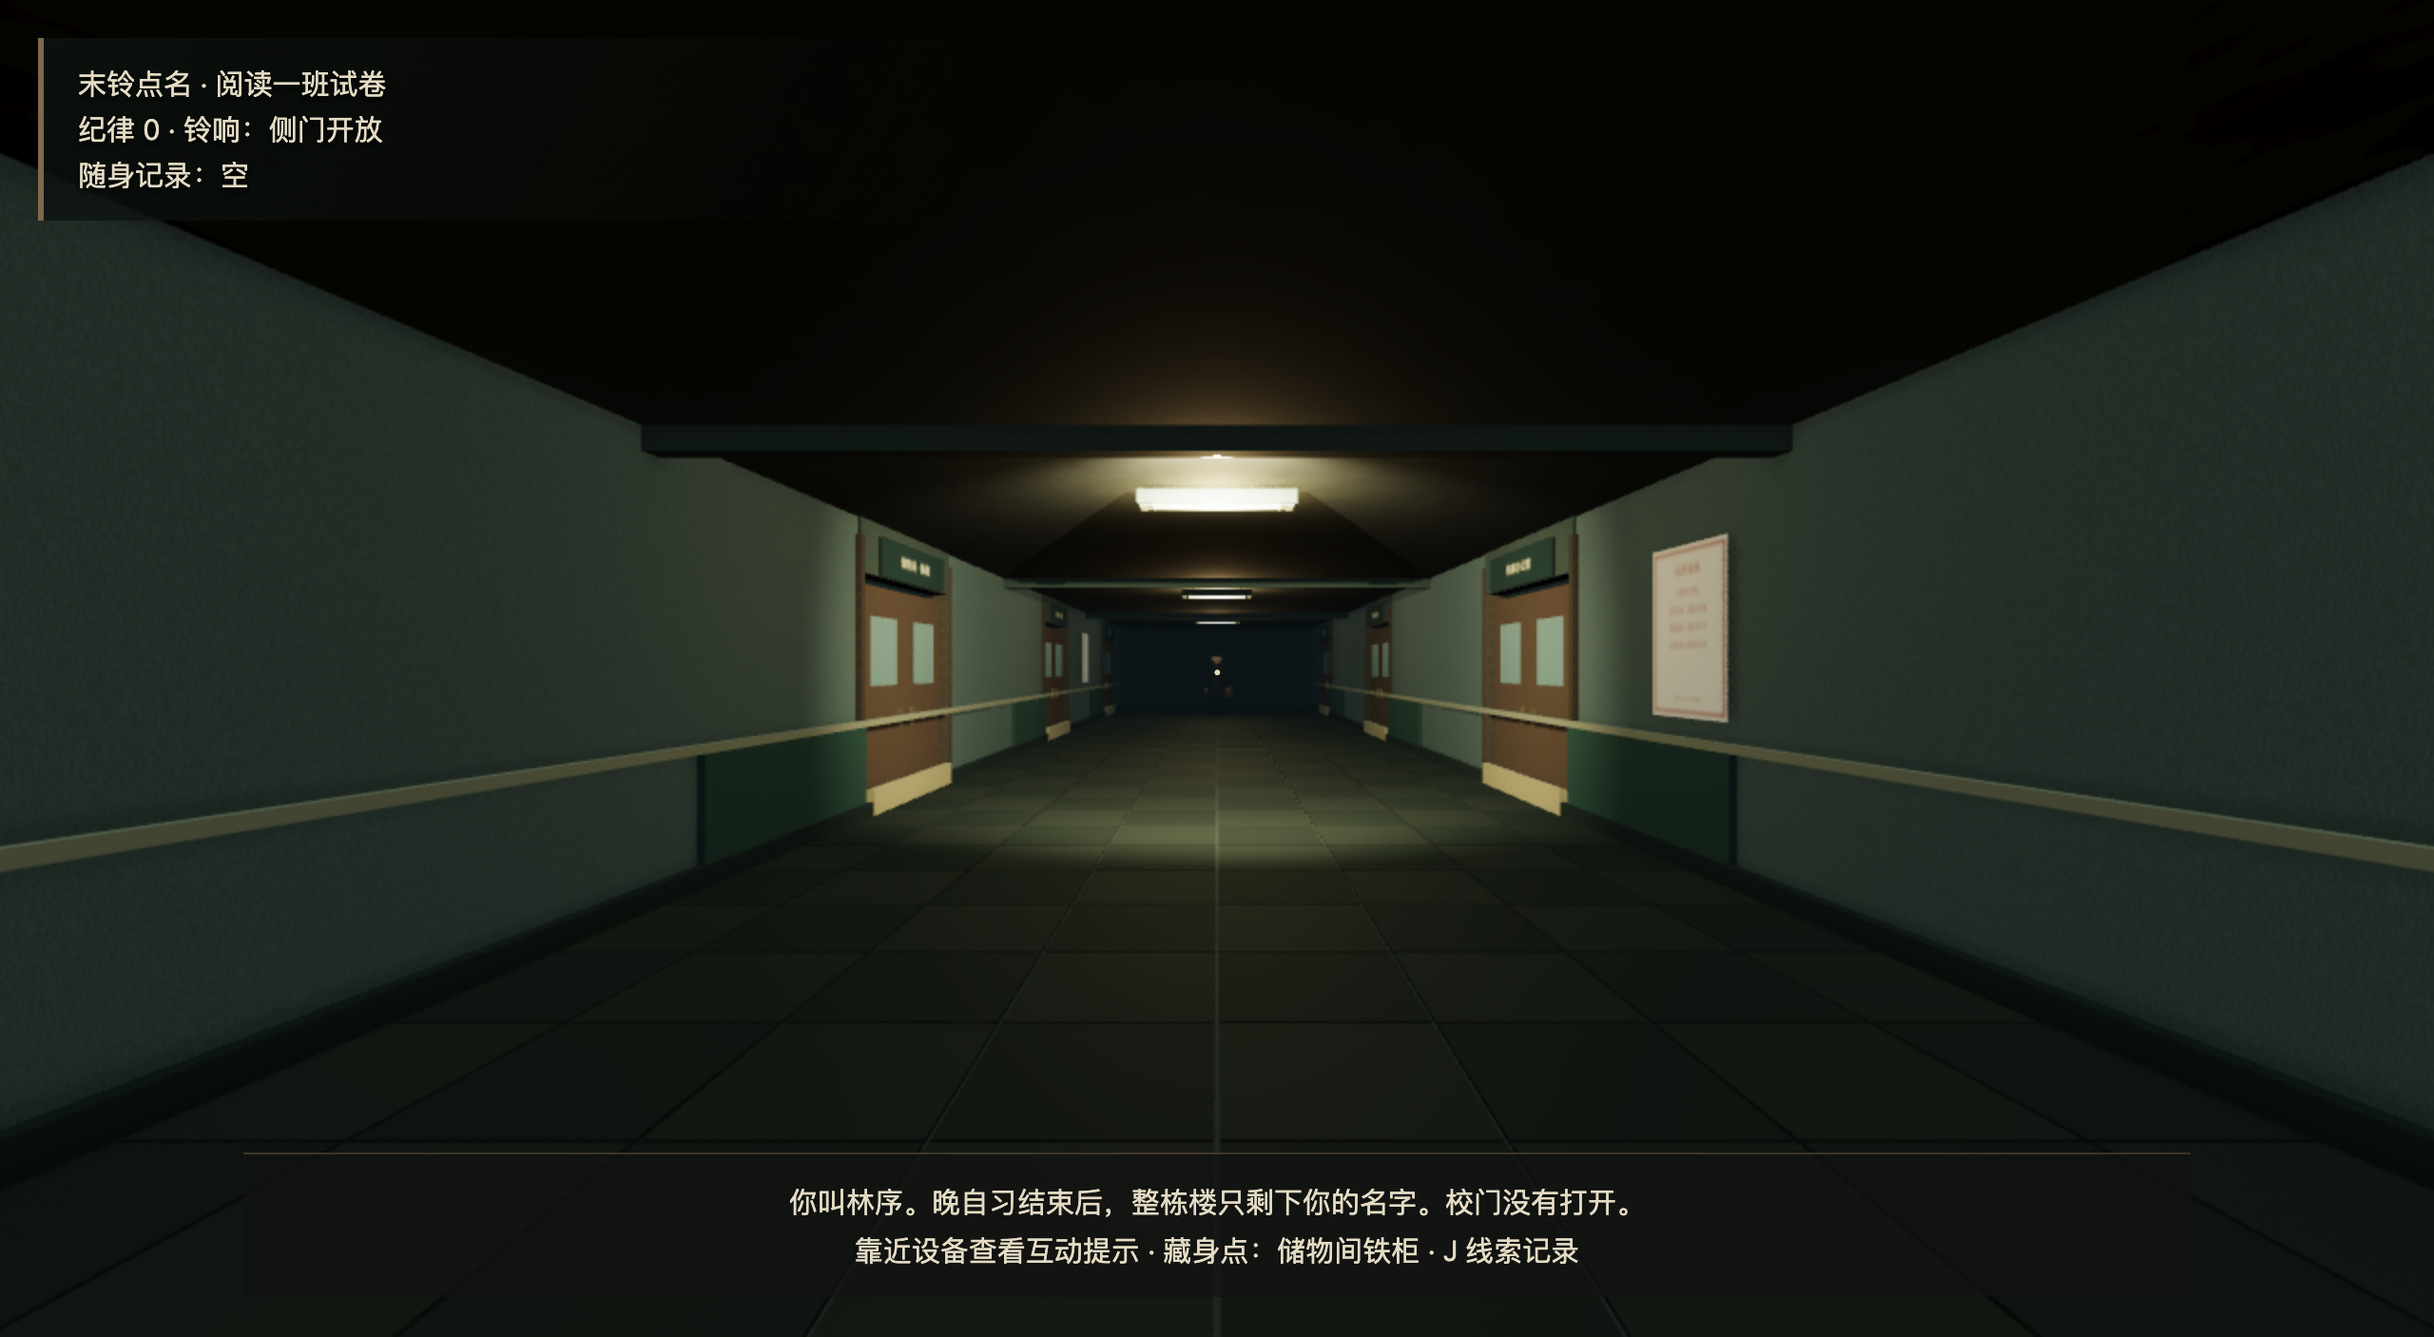
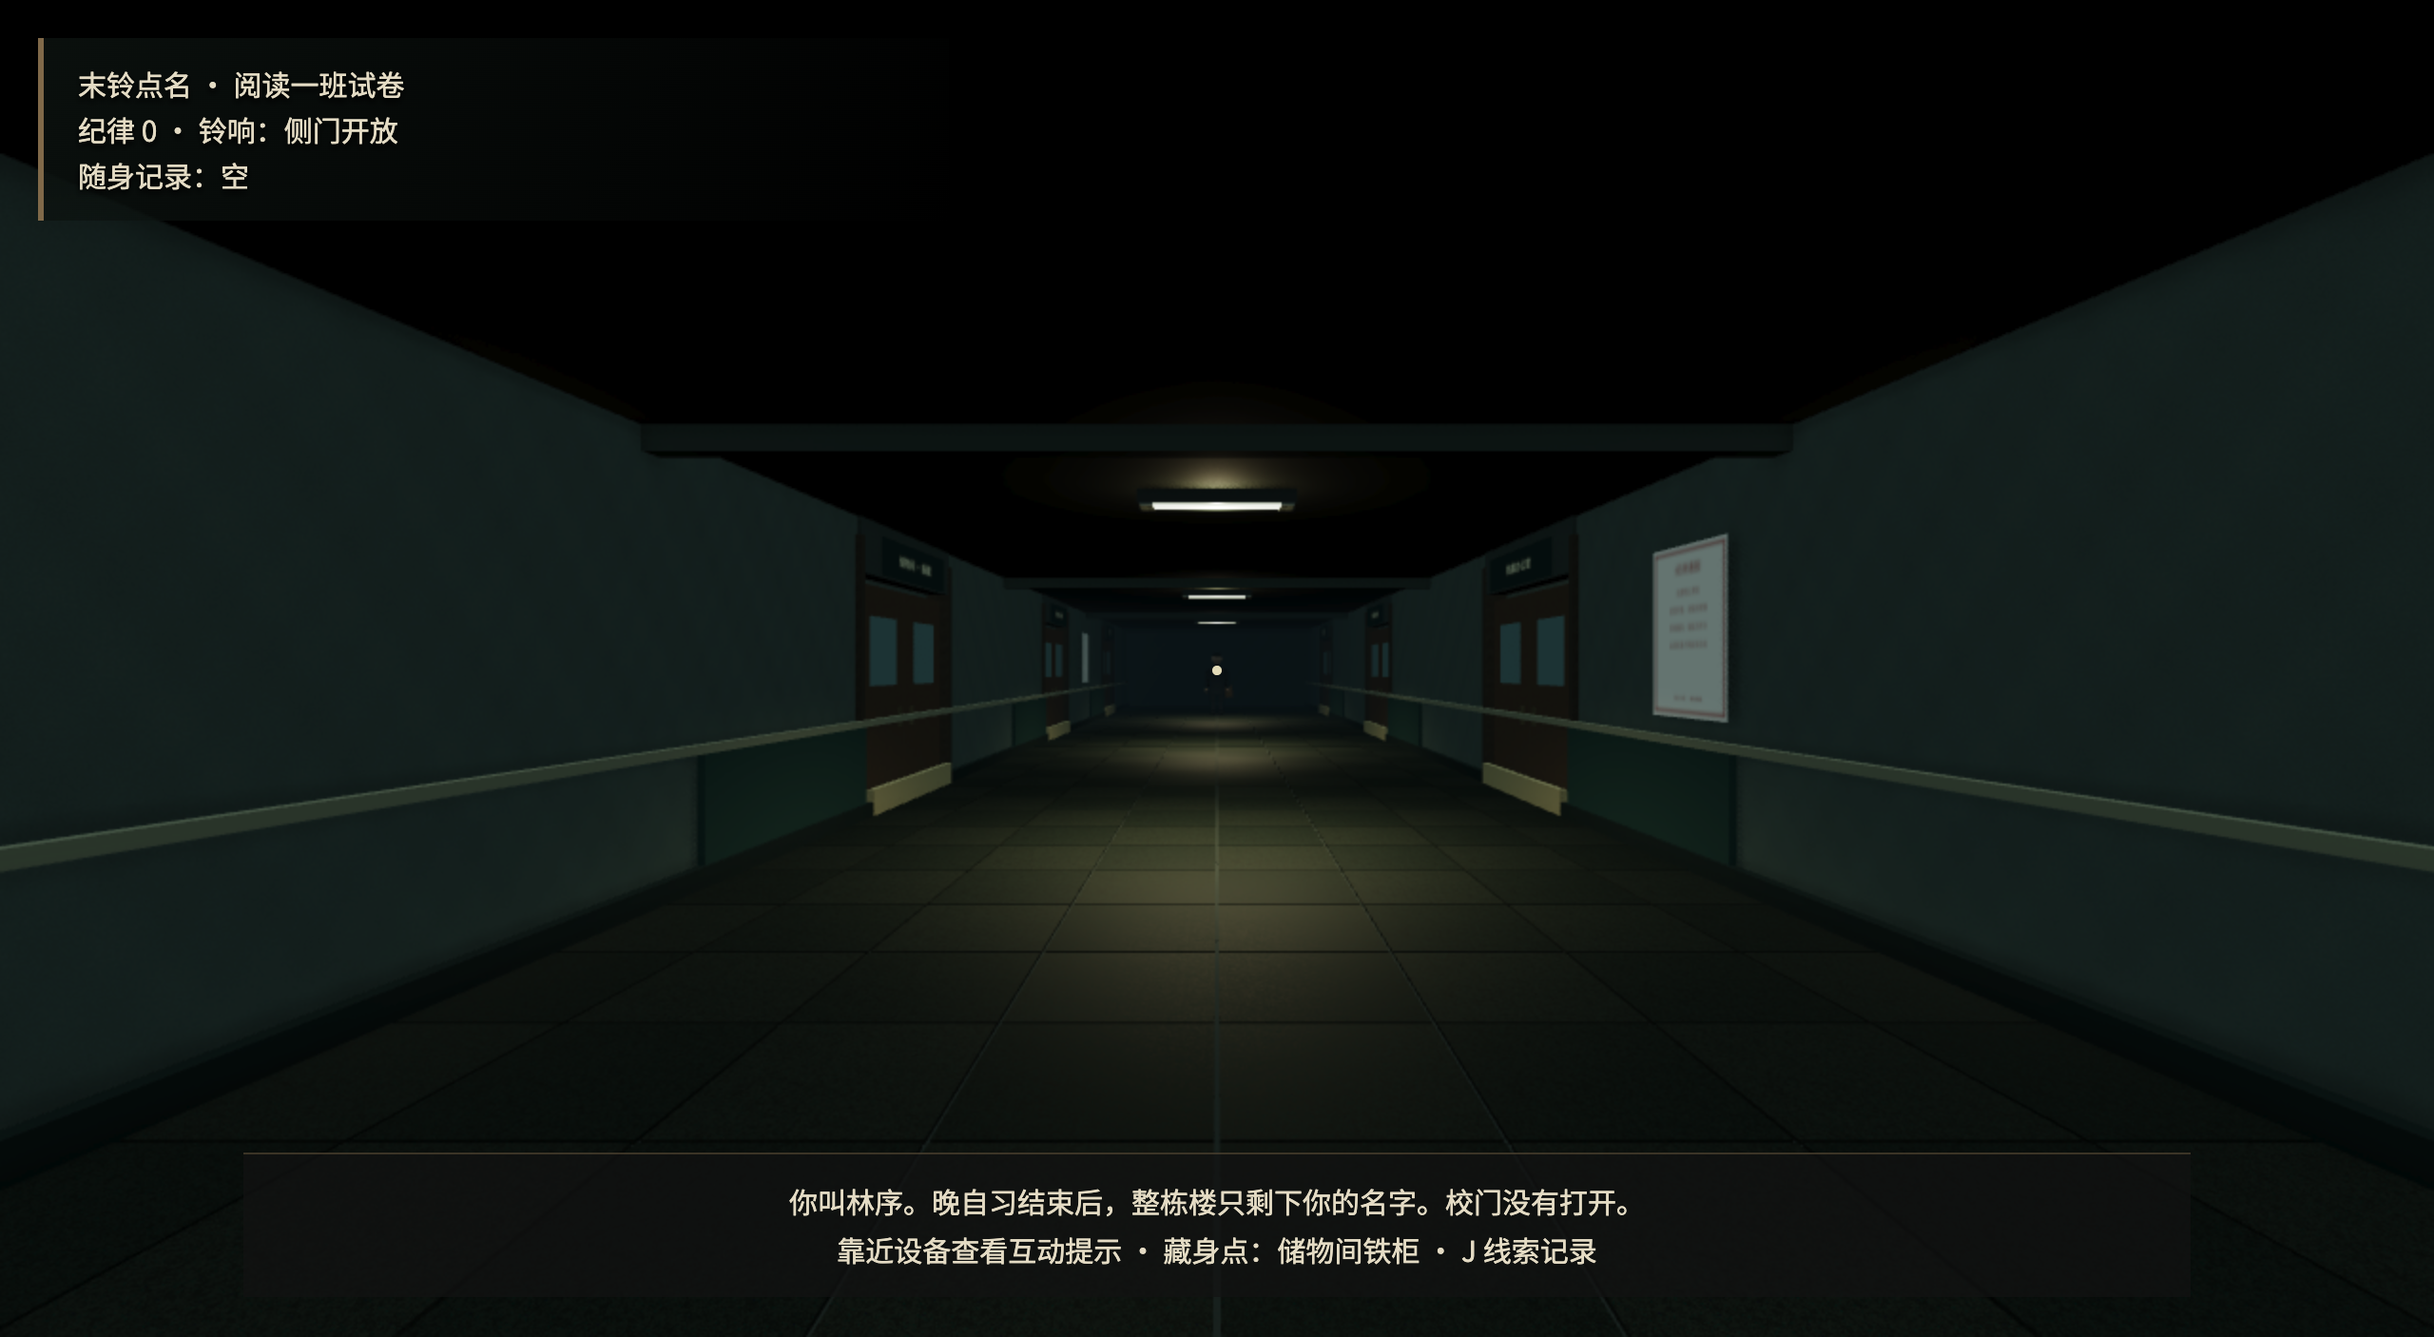
Publish verified 0.6.0 download and platform report

diff --git a/FINAL_REPORT.md b/FINAL_REPORT.md
@@ -1,61 +1,43 @@
-# 末铃点名 · 0.5.0开发预览交付报告
+# 末铃点名 · 0.6.0开发预览交付报告
 
-已公开发布能独立离线运行、能够通关的桌面游戏。**完整目标仍未完成**：高级商业游戏音画品质尚未验收，20—30分钟是设计目标，尚无独立首次玩家时长测量。熟知答案的自动路线不能代表首次体验。
+已公开发布能独立离线运行、能够通关的桌面游戏。**完整目标仍未完成**：高级商业游戏音画品质尚未验收；20—30分钟是设计目标，尚无独立首次玩家时长测量。
 
-## 已实现与正常流程验证
-- 原创虚构校园、一栋有限教学楼、两间教室、办公室、广播室、储物间、纪律公示室、配电与侧门区域。
-- 第一人称移动、奔跑、潜行、碰撞、开关门、互动、柜内窥视与躲藏；巡逻、视听发现、追逐、丢失目标后搜查、返回巡逻。目击入柜可被搜查，不能隔墙看见或捕获。
-- 铃声安全窗口及门禁、试卷/成绩谜题、纪律警戒、广播提示；试卷→档案柜→频道→配电→铃声出口的完整链条。
-- 中文菜单、设置、暂停、检查点、逐级提示、可回看记录与楼层示意图；失败/继续、可跳过被捕演出、晨光逃离结局。
-- 原创程序化建筑/家具/角色/材质、接触阴影、空间音效、阻尼弦与自适应配乐、本机中文播报；语音期间压低音乐，始终提供必要字幕。
+## 内容与玩法
+原创虚构的昭川中学包含走廊、两间教室、办公室、广播室、储物间、纪律室、配电及侧门区域。玩家可以移动、奔跑、潜行、开门、互动和藏入储物柜。巡查者有视线遮挡、声音发现、追逐、最后位置搜查与巡逻；目击藏入会搜查。
 
-实际下载的0.5.0 Mac arm64 ZIP应用，通过从新游戏到胜利的正常键盘路线，经历3次捕获后由菜单读取已获得检查点；无瞬移、无敌或物品注入。整个过程启用Playwright网络离线模式，HTTP请求0、页面错误0。同源本机应用也通过了完整路线和地图小窗口检查。
+铃声改变安全窗口与门禁，奔跑提高纪律值；试卷、成绩和频道记录形成“试卷→档案→广播→配电→铃声出口”的解谜链。提供中文菜单、设置、检查点、记录、地图、逐级提示、失败续玩和逃离结局。
 
-## 源码、运行与下载
-- [实际源码仓库](https://github.com/Tomhao10225101490/midnight-rollcall)
-- [实际0.5.0 Release下载页](https://github.com/Tomhao10225101490/midnight-rollcall/releases/tag/v0.5.0)
-- 项目文件夹：`midnight-rollcall`。进入目录后运行 `npm ci`、`node node_modules/electron/install.js`、`npm run desktop`。
-- 实际下载DMG/ZIP与校验文件：`release/downloads-0.5.0/`。
-- 实际下载ZIP解出的可双击应用：`artifacts/downloaded-0.5.0/末铃点名.app`。
-- 同源本机0.5.0应用：`release/dev-0.5/mac-arm64/末铃点名.app`。旧 `release/mac-arm64` 仍为0.4，未覆盖。
-- [每个产物的字节数与SHA256](docs/ARTIFACTS-0.5.0.md)，9个包共993131998字节。Release附带SHA256SUMS.txt。
-- 网页试玩未部署；静态web.zip仅为次要独立构建。
+0.6新增立体窗户及档案柜细节、按米平铺的抹灰与水磨石、顶灯对应动态阴影、五段原创阶段配乐和离线中文字体。修复追逐状态残留至重开，以及快速关闭面板的鼠标锁定事件竞争。所有模型、材质和合成音色由项目代码原创生成；灯光是实时近似，不是路径追踪。
 
-## 平台矩阵
-| 平台 | 0.5.0实际产物 | 验证范围 |
+## 下载与本机运行
+- [源码仓库](https://github.com/Tomhao10225101490/midnight-rollcall)
+- [0.6.0 Release](https://github.com/Tomhao10225101490/midnight-rollcall/releases/tag/v0.6.0)
+- 项目目录：`midnight-rollcall`。执行 `npm ci`、`node node_modules/electron/install.js`、`npm run desktop`。
+- 实际下载DMG/ZIP及校验文件：`release/downloads-0.6.0/`。
+- 实际下载ZIP解出的可双击应用：`artifacts/downloaded-0.6.0/末铃点名.app`。
+- 同源本机正式版本应用：`release/candidate-0.6/mac-arm64/末铃点名.app`。`release/dev-0.6`是开发版本，旧的`release/mac-arm64`是0.4，不代表最新版。
+- [九个产物的实际字节数与SHA256](docs/ARTIFACTS-0.6.0.md)，共1055548781字节；Release附SHA256SUMS.txt。
+- 网页试玩未部署。静态web.zip是次要的独立构建，桌面软件不需要浏览器或Node。
+
+## 验证矩阵
+
+| 平台 | 0.6.0产物 | 实际验证 |
 |---|---|---|
-| macOS Apple Silicon | DMG、应用ZIP | 实际下载ZIP完整离线模式键盘逃生、菜单/鼠标锁定/暂停/输入/设置；DMG只读挂载、版本/入口/Applications链接检查通过 |
-| macOS Intel | DMG、应用ZIP | 对应系统CI构建、内部版本/入口/资源及哈希通过；未实机试玩 |
-| Windows x64 | 安装EXE、便携EXE | 对应系统CI构建、内部版本/入口/资源及哈希通过；未实机试玩 |
-| Linux x64 | AppImage、tar.gz | 对应系统CI构建、内部版本/入口/资源及哈希通过；未实机试玩 |
-| 浏览器 | 静态ZIP | Chrome基础启动/菜单/暂停，资源与哈希检查通过；未整局试玩 |
+| macOS Apple Silicon | DMG、应用ZIP | 实际下载ZIP完整离线模式键盘通关、启动/输入/设置/快速记录开关；DMG只读挂载、版本、可执行入口及Applications链接通过 |
+| macOS Intel | DMG、应用ZIP | macOS runner构建，包内部版本、入口、资源及哈希通过；未实机试玩 |
+| Windows x64 | 安装EXE、便携EXE | Windows runner构建、包检查与哈希通过；未实机试玩 |
+| Linux x64 | AppImage、tar.gz | Linux runner构建、实际包检查与哈希通过；未实机试玩 |
+| 浏览器 | 静态ZIP | Chrome基础启动/菜单/暂停、实际ZIP模块及字体检查；未整局试玩 |
 
-## 可复现验证证据
-固定发布源：`ef2a4a2902d9985c8afef0d538fe2788031a3596`，tag `v0.5.0`。
+实际下载Mac ZIP应用通过正常键鼠路线，3次捕获后从菜单恢复已获得检查点；全部谜题、配乐阶段、铃声出口及结局完成，没有瞬移、无敌或物品注入。Playwright会话启用网络离线模式，HTTP请求0、页面错误0。熟知答案的自动操作不能代表首次玩家体验或时长。
 
-[原生构建43080126142](https://github.com/Tomhao10225101490/midnight-rollcall/actions/runs/43080126142)全部5个job成功。[包检查与上传43080804457](https://github.com/Tomhao10225101490/midnight-rollcall/actions/runs/43080804457)成功。全部9个包递归检查48运行模块及桌面预加载文件。公开前、公开后独立核对远端11项资产（9包+2清单）大小、SHA256与源提交一致。
+固定源码：`44290b21ad99b54ea31e6987a2c37fc48cff28c6`，tag `v0.6.0`。[原生构建](https://github.com/Tomhao10225101490/midnight-rollcall/actions/runs/43088769893)五个job成功；[包检查与上传](https://github.com/Tomhao10225101490/midnight-rollcall/actions/runs/43089960714)成功。九包均递归检查53个运行模块、桌面入口及字体许可，远端11项资产的大小/SHA256与独立CI清单一致。
 
-`npm test`21项与typecheck通过。`test:search`正常引诱后入柜，观察敌人抵达最后证据、检查周边并回到巡逻；`test:map`真实走入教室后定位正确、800×600退出通过；被捕和胜利演出原生最小化冻结通过。本地中文播报时配乐压低/恢复、静音RMS为0通过。桌面自动脚本默认Mac，可用ELECTRON_PATH指定可执行文件，详见README。
+25项逻辑测试、typecheck通过。实际候选app离线字体加载、画布字形时序、音量/静音和本机中文播报压低配乐通过；静音输出为零。实际下载app20次快速开关记录，真正Esc与最小化暂停通过。窗口短时120帧1993.8ms约60.19FPS，8次重开378几何/56纹理稳定；该数据不是整局最低性能保证。音频信号检查不等于主观听感评价。
 
-本机走廊短时120帧/1988.6ms约60.34FPS，8次重开355几何/40纹理稳定。此数据在后续搜索/地图改动前采集，不是发布版整局最低帧率保证。README截图来自实际下载应用，诊断模型相机不冒充玩家路线。
-
-## 未完成与限制
-- 高级商业游戏建模、美术和音乐仍需提升与体验评价。
-- 首次玩家20—30分钟目标未实测，需要继续完善关卡节奏与独立玩家体验测试。
-- Windows/Linux/Intel Mac未实机试玩；音频图和播报状态验证不代表主观听感验收。
-- 无开发者签名或苹果公证证书，系统可能提示未经验证。按[安装说明](docs/INSTALL.md)允许单个可信应用，不关闭全局安全保护。
-- 原创代码MIT；第三方软件保留许可。无付费API、购买素材、云主机、域名、遥测、账号服务或后端。
-
-本轮无阻断发布的构建或授权问题。0.5是已验证可玩的开发预览，不能据此宣布整体目标完成。
-
-后续main已进入0.6.0-dev.1：原创立体窗户与档案柜细节已加入 `release/dev-0.6/mac-arm64/末铃点名.app`；该本机开发app完整网络禁用键盘通关通过（3次捕获/续玩，HTTP与页面错误均0）。0.6尚未发布，上述公开产物矩阵和校验清单仍对应0.5.0。
-
-0.6开发app现已内置许可独立保留的Noto Sans SC离线中文字体；538个非ASCII源码字符覆盖检查通过，实际字形与画布加载时序、缺失资源拒绝及失败重试通过。含字体的本机app再次完成完整网络禁用键盘路线（3次捕获/续玩，0个HTTP请求与页面错误）。Windows/Linux字体运行尚未实机验证，公开0.5包不含此改动。
-
-0.6后续开发新增五段原创配乐、追逐过渡与重开音符清理，并修复追逐状态残留到新游戏首帧的问题。23项逻辑测试与实际应用8次普通/一次追逐重开通过；此修改后的实际app整局断网键鼠路线已通过：3次捕获后正常续玩，各阶段配乐、解谜与胜利通过，HTTP和页面错误均0；0.6尚未公开发布。音频自动验证不代表主观音乐品质验收。
-
-0.6 建筑表面更新：按米平铺抹灰与水磨石，分离颜色、凹凸和粗糙度。25 项测试及实际 app 启动/输入/设置/材质回归通过，8 次重开渲染资源稳定；短时视点约 59.96FPS。不代表整局性能下限或商业美术验收。
-
-0.6走廊灯光改为四处顶灯对应的动态阴影和局部漫射近似；短时视点约60.19FPS，8次重开资源稳定。整局发现并修复快速关闭面板的鼠标锁定事件竞争，实际app20次快速记录开关与Esc/最小化暂停通过；修复版实际app完整断网路线已通过：3次捕获后正常续玩、全部谜题与胜利完成，HTTP与页面错误均0。
-
-0.6.0候选源码已固定为44290b21ad99b54ea31e6987a2c37fc48cff28c6，原生CI 43088769893和草稿Release验收进行中，尚未公开。正式版本候选app位于release/candidate-0.6/mac-arm64/末铃点名.app，启动/输入/设置及快速记录开关测试通过；公开下载清单仍对应0.5.0。
+## 限制与未完成项
+- 商业级建模、美术、音乐品质及首次玩家20—30分钟目标仍需继续改善和独立体验验收。
+- Windows/Linux/Intel Mac没有实机试玩，不能写成全平台已验证。
+- 无开发者签名、Windows代码签名或苹果公证；按[安装说明](docs/INSTALL.md)允许单个可信应用，不关闭全局安全保护。
+- 原创代码与程序化资产MIT。Noto Sans SC字体按SIL OFL 1.1保留原版权与许可；第三方软件保留各自许可，见THIRD_PARTY_NOTICES.md。
+- 无账号、后端、遥测、付费API或购买素材。没有构建或授权阻塞；0.6仍是开发预览，不能据此宣布整体目标完成。

diff --git a/VERIFY.md b/VERIFY.md
@@ -310,3 +310,8 @@ session55315已成功结束：包含新音效与探索链的实际0.3.0-dev.1 `.
 - 从草稿实际下载Mac arm64 DMG/ZIP到release/downloads-0.6.0；本地大小和SHA256匹配独立CI清单。ZIP解到artifacts/downloaded-0.6.0/末铃点名.app，真实启动/鼠标锁定/暂停/移动/设置、20次快速开关记录与Esc/最小化暂停通过。已观察下载app的实际画面。
 - DMG只读挂载，版本0.6.0、可执行入口与/Applications链接检查通过，正常卸载。报告artifacts/dmg-0.6-inspection.json。
 - 实际下载app完整断网键鼠路线1689仍在运行，输出artifacts/downloaded-0.6-full.log；不要重复启动，尚未宣称本次下载包完整通关。下一步收取终态并另存traverse-result.json；通过后完善release notes/docs真实矩阵，再公开草稿并重新verify-release。否则先修复。
+
+## 0.6.0 已公开
+- 实际下载ZIP应用完整断网键鼠路线1689退出0：3次捕获后正常检查点续玩，全部谜题/配乐阶段/出口与胜利通过，HTTP及页面错误均0。独立保存artifacts/downloaded-0.6-full.json及日志。
+- Release已公开：https://github.com/Tomhao10225101490/midnight-rollcall/releases/tag/v0.6.0 。公开后verify-release再次核对11项远端资产与固定源提交，isDraft=false、verified=true。
+- README、FINAL_REPORT、docs/ARTIFACTS-0.6.0.md及实际下载app截图已同步。所有本机GUI、构建、上传任务均已结束。下一步仍为商业级音画与独立首次玩家体验；整体目标未完成，0.6是可下载离线玩的开发预览。

diff --git a/docs/ARTIFACTS-0.6.0.md b/docs/ARTIFACTS-0.6.0.md
@@ -1,0 +1,15 @@
+# 末铃点名 0.6.0 发布产物
+
+构建源提交：44290b21ad99b54ea31e6987a2c37fc48cff28c6。大小单位为字节；校验算法SHA256。
+
+| 文件 | 字节数 | SHA256 |
+|---|---:|---|
[9 lines of base64/hex data omitted]
